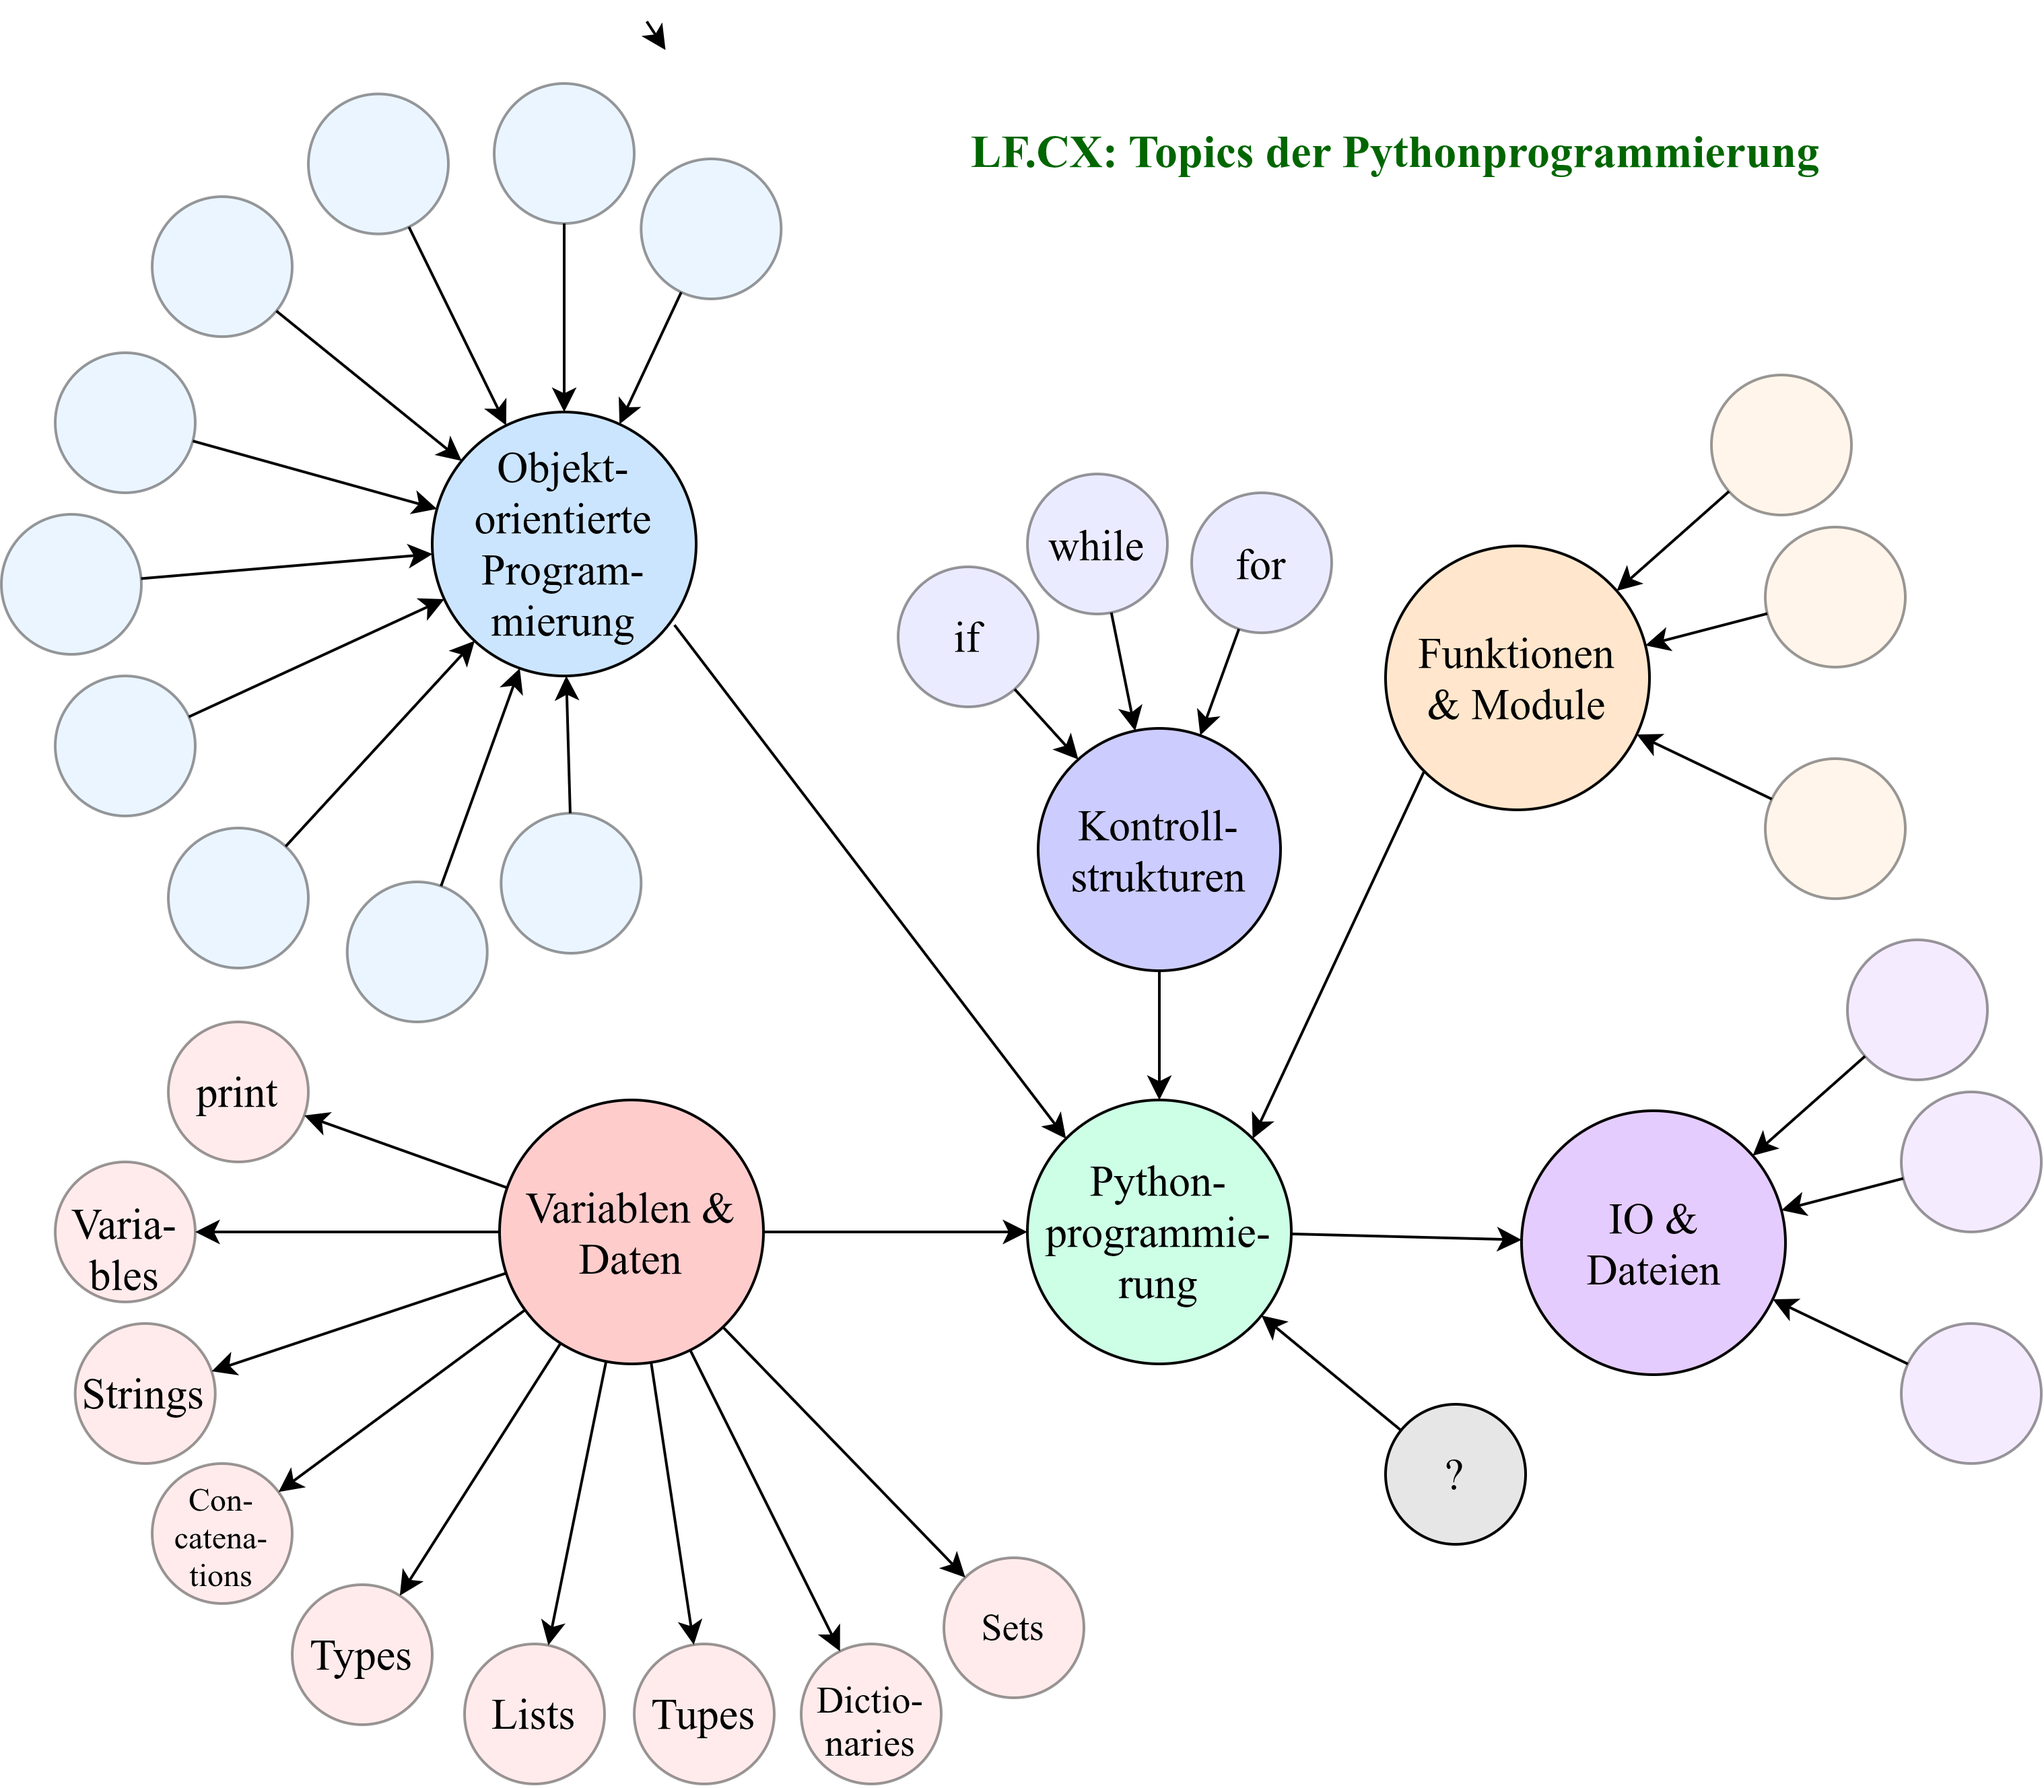
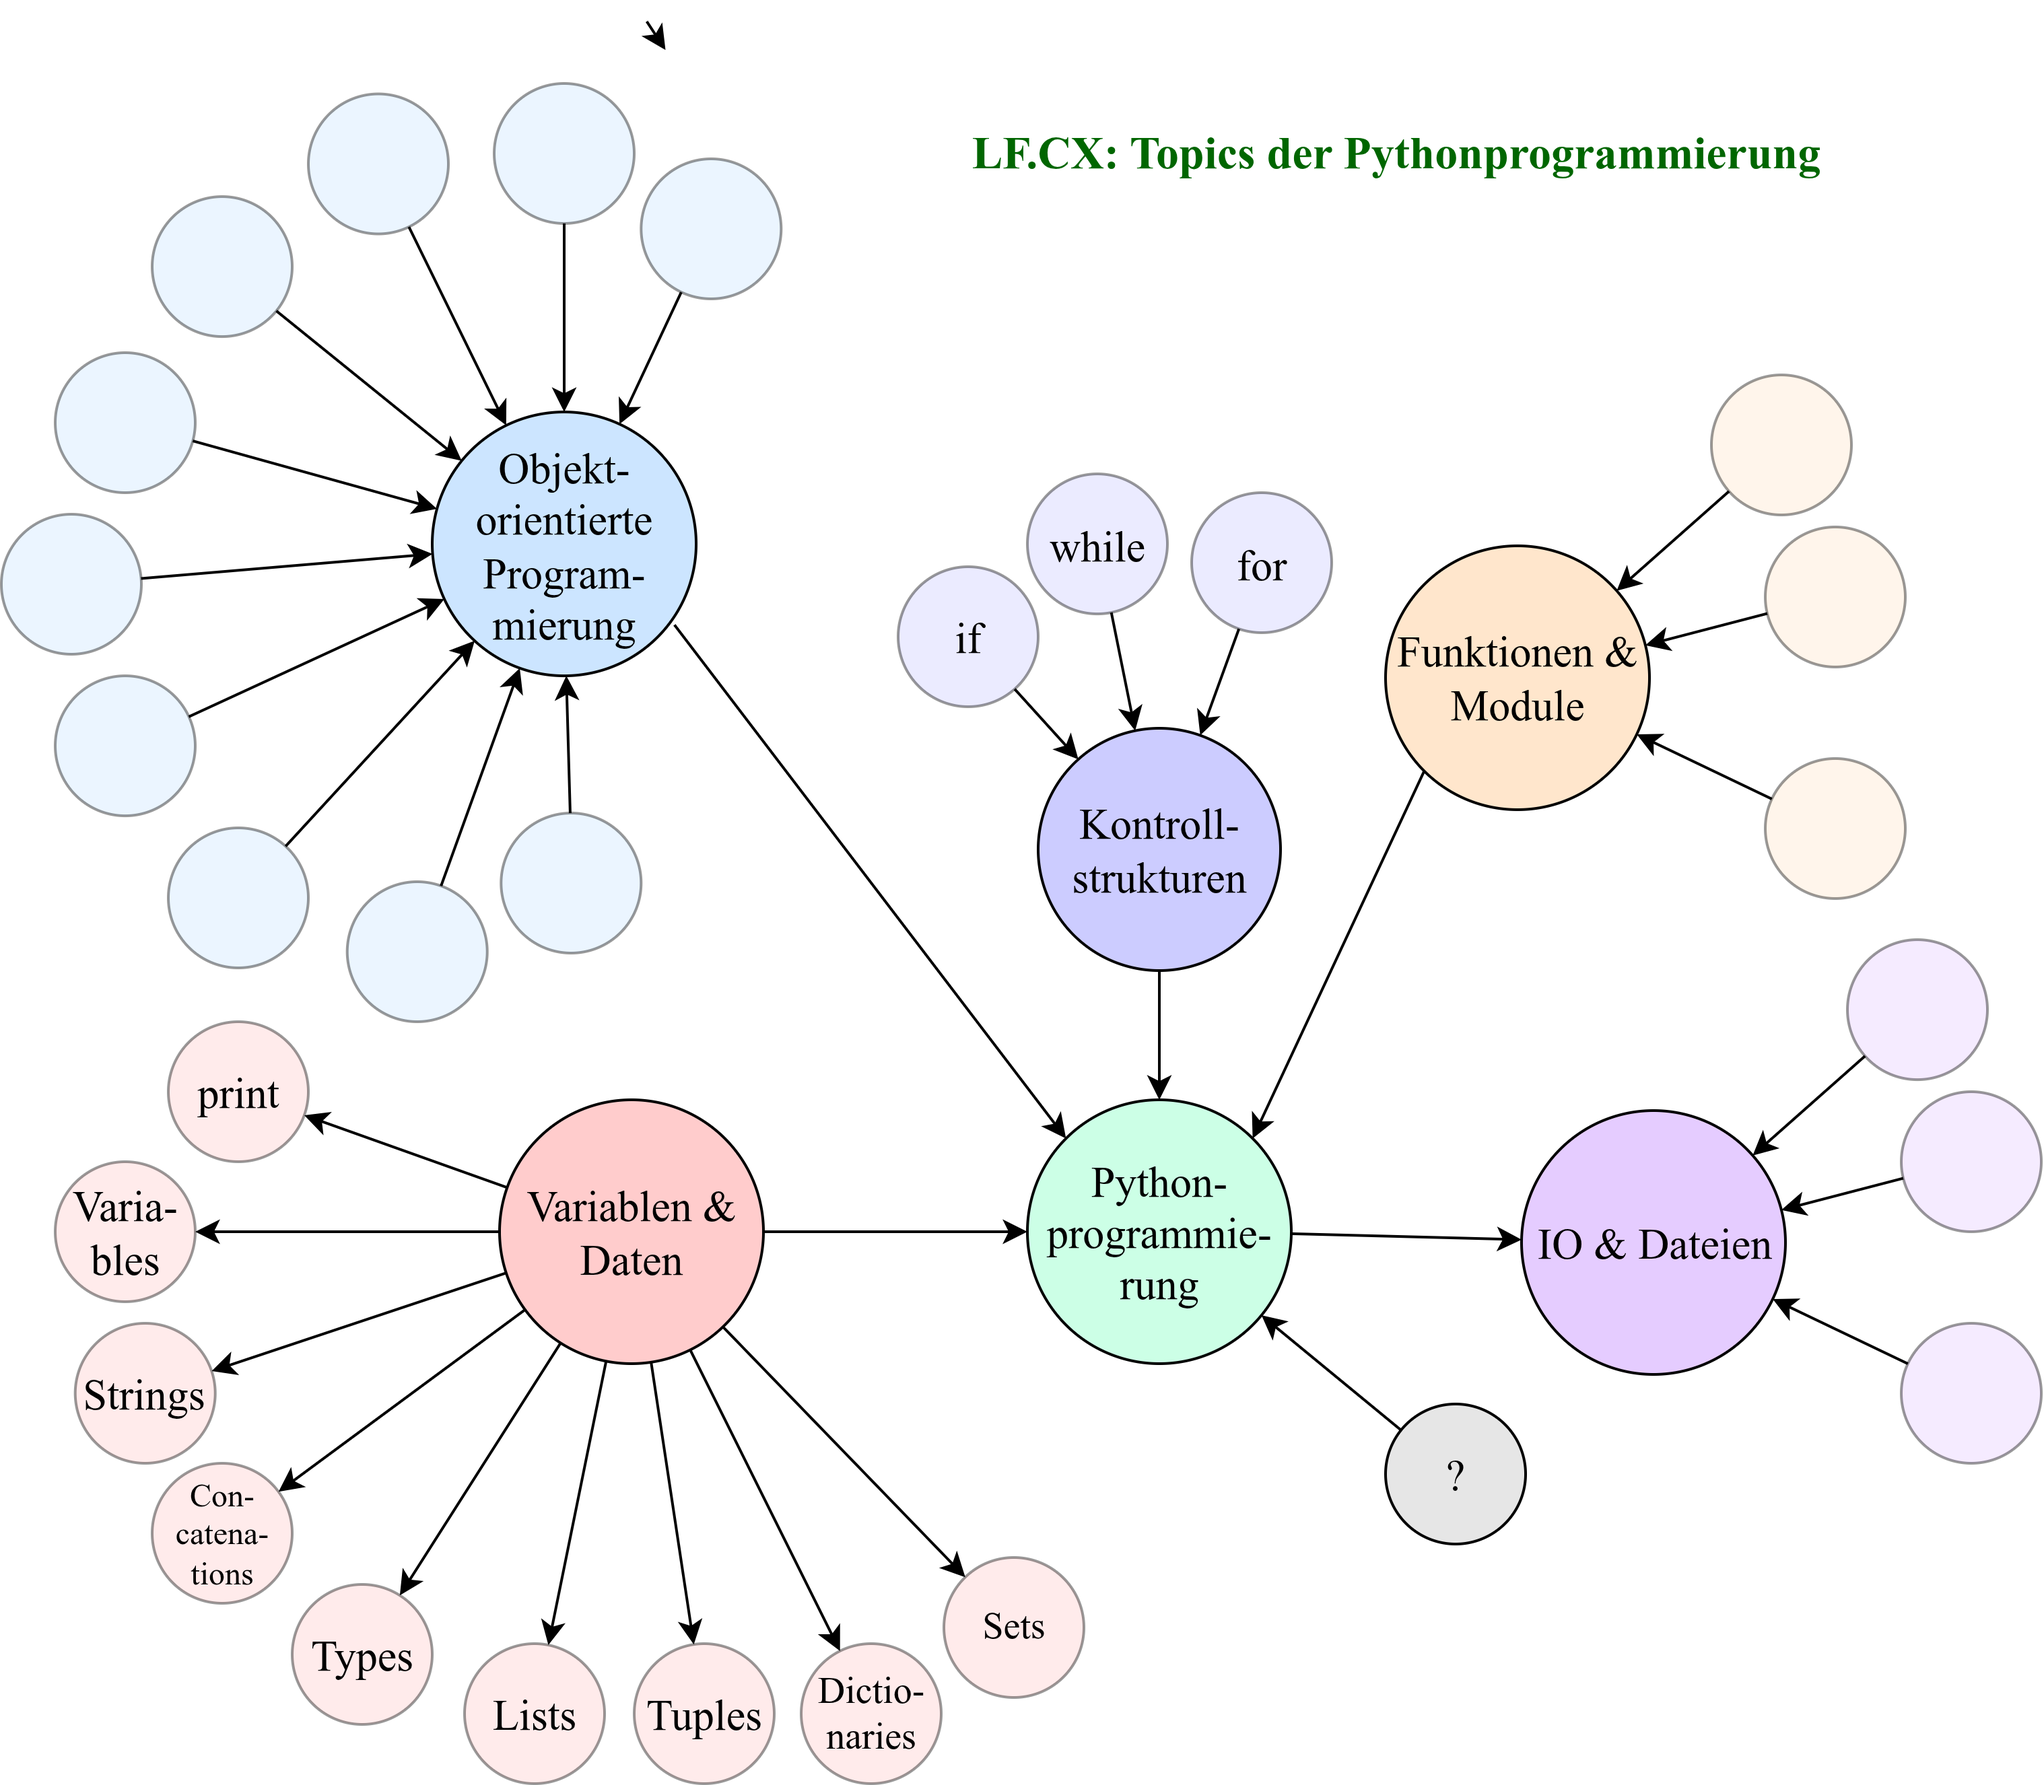
fix typos

diff --git a/sources/lf.cx/cx.py2go/snp.py2go/py2go-04-concat.py b/sources/lf.cx/cx.py2go/snp.py2go/py2go-04-concat.py
@@ -13,7 +13,7 @@
 4c. Geben Sie die Strings mea und meb mit print aus.
 5. Initialisieren Sie als Gegenprobe die Variablen mec und med mit den beiden
    anderen Methoden aus py2go-03 und gegeben Sie sie mit print aus. Es werden
-   Arrays ausgegeben, keine Strings. Das zeugt, warum Sie sie nicht zum Zweck
+   Arrays ausgegeben, keine Strings. Das zeigt, warum Sie sie nicht zum Zweck
    der Stringbildung nutzen können.
 
 Hinweis:

diff --git a/sources/lf.cx/cx.py2go/snp.py2go/py2go-04-concat.sol.py b/sources/lf.cx/cx.py2go/snp.py2go/py2go-04-concat.sol.py
@@ -13,7 +13,7 @@
 4c. Geben Sie die Strings mea und meb mit print aus.
 5. Initialisieren Sie als Gegenprobe die Variablen mec und med mit den beiden
    anderen Methoden aus py2go-03 und gegeben Sie sie mit print aus. Es werden
-   Arrays ausgegeben, keine Strings. Das zeugt, warum Sie sie nicht zum Zweck
+   Arrays ausgegeben, keine Strings. Das zeigt, warum Sie sie nicht zum Zweck
    der Stringbildung nutzen können.
 
 Hinweis:
